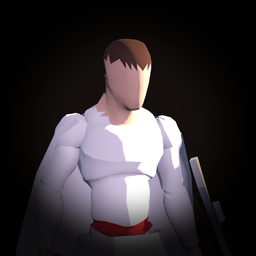
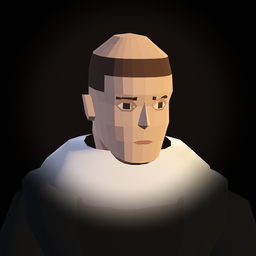
feat: render the portraits from the dressed, faced figures
Head and shoulders in a three-quarter view, one warm key ahead of the
face, a faint cool fill and rim, the camera a little below the eyes so
they show under a helmet's brim; hand-held gear is hidden. The sergeant
looks the other way so the two soldiers are not one picture. A test
checks that no two portraits share their light and shade and that each
has a face, skin and eyes, in its middle third.

diff --git a/README.md b/README.md
@@ -80,7 +80,9 @@ materials' tiling textures, colour maps at 1024 px and normal maps at 512 px, ar
 Haven in `assets/textures/` (see `CREDITS.md`), imported with mipmaps.
 
 The portraits (`assets/portraits/`) are rendered from the dressed figures by
-`godot --path . -s tools/render_portraits.gd` (it needs a window). The interface's typefaces and
+`godot --path . -s tools/render_portraits.gd` (it needs a window): each character's head and
+shoulders, faced and clothed as in the game, in a three-quarter view under one warm side light, with
+what it holds in its hands left out of frame; the title's Álvar is the same picture drawn larger. The interface's typefaces and
 panel frames (`assets/ui/`) are made by `tools/make_ui.py`; its docstring has the command. Both write
 the same bytes on every run. These small interface images keep Godot's lossless 2D import: they are
 drawn at or near their own size in the interface, where block compression would smear the thin
